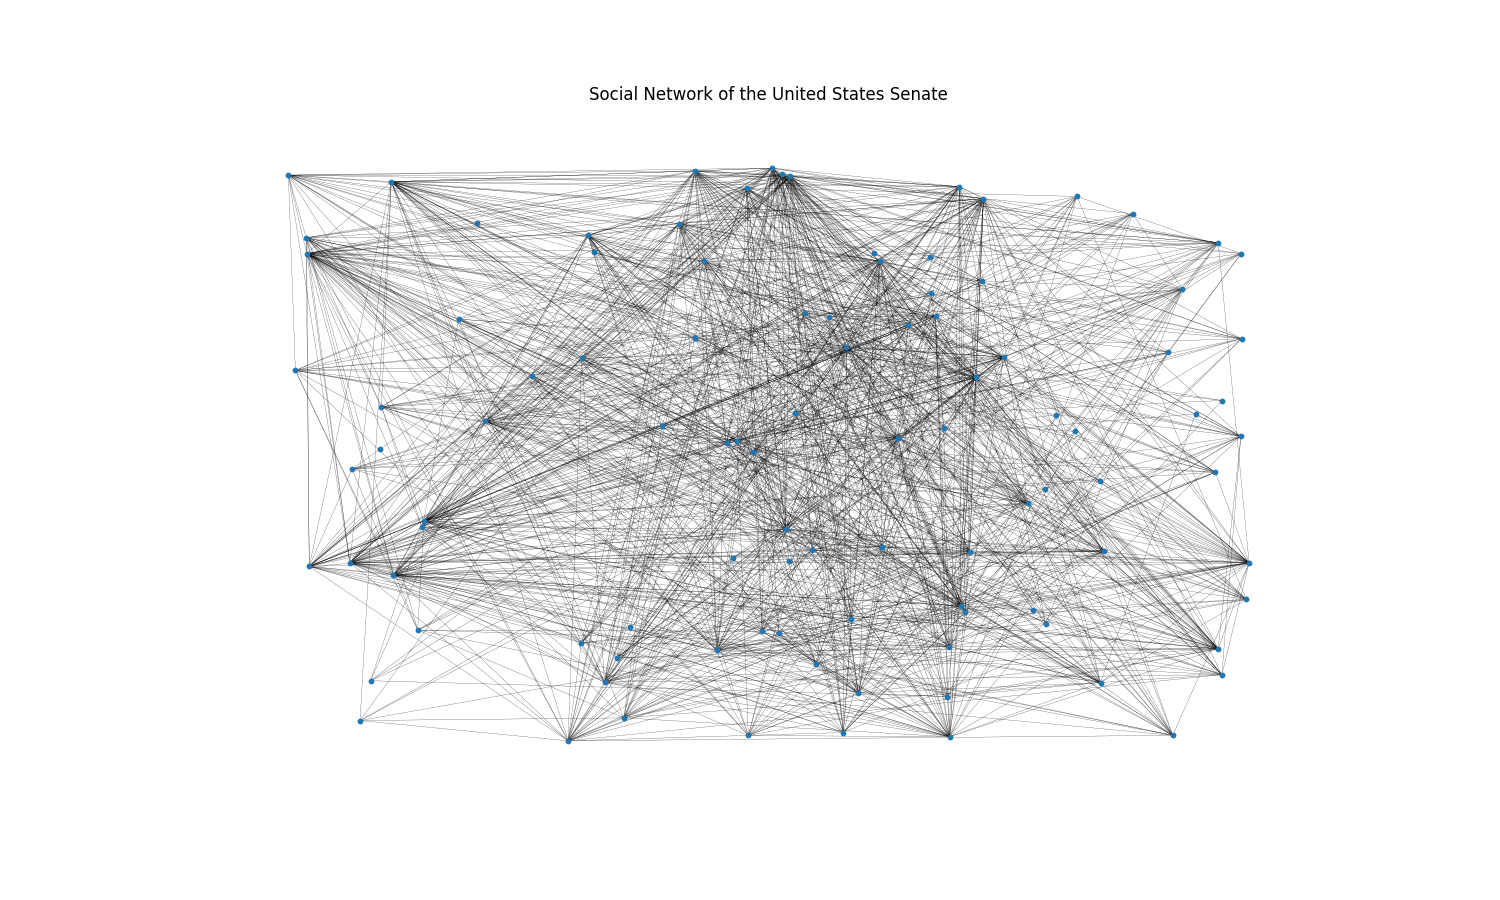
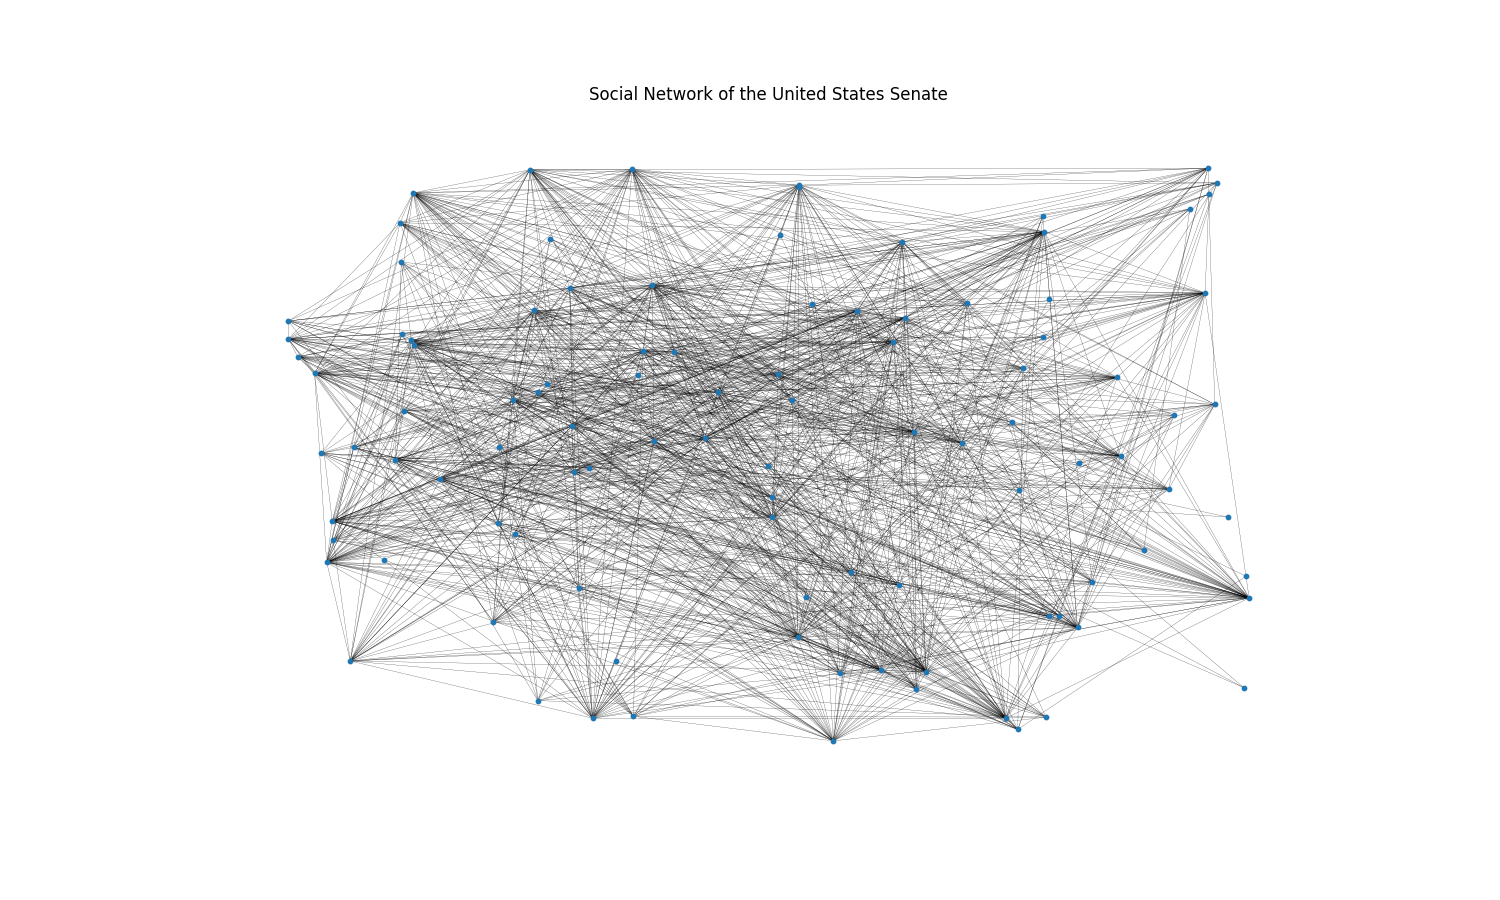
Added Centralities

Changed region(s): [[0.184, 0.1867, 0.8587, 0.84]]

diff --git a/network.py b/network.py
@@ -3,4 +3,97 @@ import numpy as np
 import networkx as nx
 import matplotlib.pyplot as plt
 from random import randint
+import geopandas as gpd
+import folium as fm
+
+from shapely.geometry import Point
+from random import randint
+
+senators = pd.read_csv("Data/senators.csv")
+
+senator_co = pd.read_csv("Data/senateCosponsorship.csv")
+
+G = nx.from_pandas_edgelist(senator_co, "V1", "V2")
+G.add_nodes_from([60,86])
+
+map = fm.Map(location=[40, -100], zoom_start=4)
+
+for index, row in senators.iterrows():
+    fm.Marker(location=[row['y'], row['x']], 
+                  tooltip=row['name'], 
+                  icon=fm.Icon(color='blue')
+                 ).add_to(map)
+
+# Social Network Visualization
+''' Since we don't have any real sense of structure in the data, let's start by
+viewing the graph with `random_layout`, which is among the fastest of the layout
+functions.'''
+
+fig, ax = plt.subplots(figsize=(15, 9))
+ax.axis("off")
+plot_options = {"node_size": 10, "with_labels": False, "width": 0.15}
+nx.draw_networkx(G, pos=nx.random_layout(G), ax=ax, **plot_options)
+plt.title("Social Network of the United States Senate")
+plt.savefig('Network.png')
+
+# Bill Cosponsorship Visualization
+'''we can use the `spring_layout`
+function which is the default layout function for the networkx drawing module.
+The `spring_layout` function has the advantage that it takes into account the
+nodes and edges to compute locations of the nodes. The downside however, is
+that this process is much more computationally expensive, and can be quite
+slow for graphs with 100's of nodes and 1000's of edges.'''
+
+
+pos = nx.spring_layout(G, iterations=15, seed=1721)
+fig, ax = plt.subplots(figsize=(15, 9))
+ax.axis("off")
+nx.draw_networkx(G, pos=pos, ax=ax, **plot_options)
+plt.title("Bill Cosponsorship Network")
+plt.savefig("Bill Cosponsorship.png")
+
+# The number of nodes on an average each node is connected to
+
+mean_nodes = np.mean([d for _, d in G.degree()])
+
+# Degree Centrality
+'''Degree centrality assigns an importance score based simply on the number of links held by each node.
+ In this analysis, that means that the higher the degree centrality of a node is, the more edges are 
+ connected to the particular node and thus the more neighbor nodes this node has.'''
+
+degree_centrality = nx.centrality.degree_centrality(G)  
+(sorted(degree_centrality.items(), key=lambda item: item[1], reverse=True))[:8]
+
+# This is the senator with the highest degree centrality
+
+(senators.loc[senators['id'] == 53]) 
+
+# This is the senator with the lowest degree centrality
+
+degree_centrality = nx.centrality.degree_centrality(G)  
+(sorted(degree_centrality.items(), key=lambda item: item[1], reverse=False))[:8]
+
+(senators.loc[senators['id'] == 60]) 
+(senators.loc[senators['id'] == 86])
+
+# Closeness Centrality
+'''Closeness centrality scores each node based on their ‘closeness’ to all other nodes 
+in the network. For a node $v$, its closeness centrality measures the average farness to 
+all other nodes. In other words, the higher the closeness centrality of $v$, the closer 
+it is located to the center of the network.'''
+
+closeness_centrality = nx.centrality.closeness_centrality(
+    G
+)  # save results in a variable to use again
+(sorted(closeness_centrality.items(), key=lambda item: item[1], reverse=True))[:8]
+
+# Betweenness Centrality
+
+'''Betweenness centrality measures the number of times a node lies on the shortest path 
+between other nodes, meaning it acts as a bridge. In detail, betweenness centrality of 
+a node $v$ is the percentage of all the shortest paths of any two nodes (apart from $v$),
+which pass through $v$. '''
+
+betweenness_centrality = nx.centrality.betweenness_centrality(G)  # save results in a variable to use again
+(sorted(betweenness_centrality.items(), key=lambda item: item[1], reverse=True))[:8]
 
